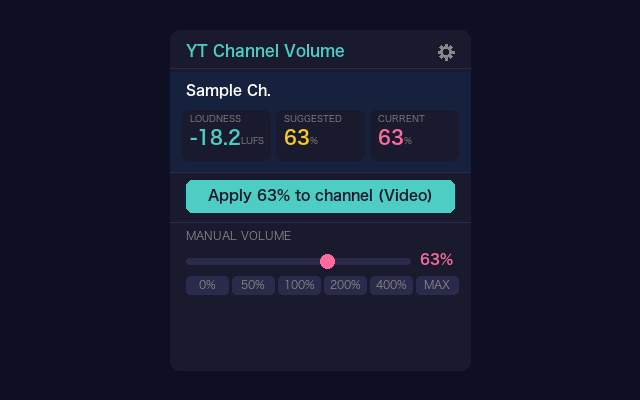
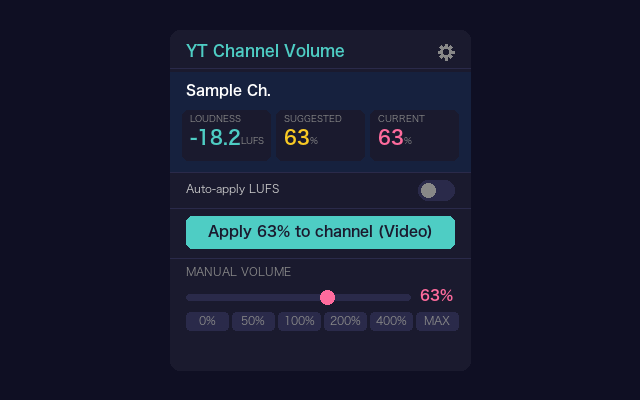
fix: draw the popup and settings rows the extension actually has
The mockups left out controls the UI has. popup.html puts .auto-section
between the loudness cards and the apply button — the per-channel LUFS
switch — and the popup image jumped straight from the cards to the button.
options.html lays out four setting rows; the settings image had two, missing
the all-channel Video/Live defaults and the gain overlay switch, and the
Saved Channels heading carried no Clear all.

They are drawn now in the order and with the strings the source has, the
switch in the shape .toggle-switch renders: 36x20, knob left and grey when
off, right and teal when on. The popup shows the channel switch off, which
is the state that leaves the apply button and the slider below it usable,
and the settings image shows the overlay switch on, which is the state the
overlay screenshot is taken in.

Six of the drawn strings live in _locales, so the test that compares three
of them against their messages now covers all six plus Clear all.

Changed region(s): [[0.2812, 0.45, 0.7188, 0.84]]

diff --git a/test.js b/test.js
@@ -225,7 +225,17 @@ if (outDirDecl && langLoop) {
   }
 
   // The mockups spell out UI text that lives in _locales, so it can drift.
-  const drawnLabels = { target_desc: 'targetLufsDesc', unit_label: 'displayUnit', unit_desc: 'displayUnitDesc' };
+  const drawnLabels = {
+    auto_label: 'autoApplyLoudness',
+    target_desc: 'targetLufsDesc',
+    all_auto_label: 'allChannelsAutoApply',
+    all_auto_desc: 'allChannelsAutoApplyDesc',
+    unit_label: 'displayUnit',
+    unit_desc: 'displayUnitDesc',
+    overlay_label: 'showGainOverlay',
+    overlay_desc: 'showGainOverlayDesc',
+    clear_all: 'clearAll',
+  };
   for (const lang of langs) {
     const localeFile = `./_locales/${lang}/messages.json`;
     assert(fs.existsSync(localeFile), `${localeFile} exists for the language the mockups draw`);

diff --git a/gen_screenshots.py b/gen_screenshots.py
@@ -84,6 +84,13 @@ def fullscreen(draw, cx, cy, size, color):
             draw.line([(x, y), (x, y - arm * sy)], fill=color, width=2)
 
 
+def toggle(draw, x, y, on):
+    """The extension's 36x20 switch: dark track, knob left when off, teal right when on."""
+    draw.rounded_rectangle([x, y, x+36, y+20], radius=10, fill=(27, 58, 75) if on else BORDER)
+    knob_x = x + 19 if on else x + 3
+    draw.ellipse([knob_x, y+3, knob_x+14, y+17], fill=TEAL if on else GRAY)
+
+
 def fit_value_font(draw, cards, max_w):
     """Largest bold size at which every card's value + unit still fits its card."""
     for size in (22, 20, 18, 17, 16, 15, 14):
@@ -100,10 +107,16 @@ def fit_value_font(draw, cards, max_w):
 STRINGS = {
     'ja': {
         'apply': '63% をチャンネルに適用 (Video)',
+        'auto_label': 'LUFS 自動適用',
         'manual': 'MANUAL VOLUME',
         'target_desc': 'Loudness から算出するゲインの基準値',
+        'all_auto_label': '全チャンネルの LUFS 自動適用',
+        'all_auto_desc': '個別設定がないチャンネルの既定値',
         'unit_label': '表示単位',
         'unit_desc': 'ゲイン値の表示形式',
+        'overlay_label': 'ゲイン表示',
+        'overlay_desc': 'プレイヤーの音量バー横に適用中のゲインを表示',
+        'clear_all': '全削除',
         'video_title': 'Sample Ch. - ピアノカバー集',
         'video_channel': 'Sample Ch.',
         'channels': [
@@ -114,10 +127,16 @@ STRINGS = {
     },
     'en': {
         'apply': 'Apply 63% to channel (Video)',
+        'auto_label': 'Auto-apply LUFS',
         'manual': 'MANUAL VOLUME',
         'target_desc': 'Reference level for gain calculation from Loudness',
+        'all_auto_label': 'Auto-apply LUFS for all channels',
+        'all_auto_desc': 'Default for channels without an individual setting',
         'unit_label': 'Display unit',
         'unit_desc': 'Format for gain values',
+        'overlay_label': 'Gain overlay',
+        'overlay_desc': 'Show applied gain next to the volume bar in the player',
+        'clear_all': 'Clear all',
         'video_title': 'Sample Ch. - Piano Cover Collection',
         'video_channel': 'Sample Ch.',
         'channels': [
@@ -168,8 +187,15 @@ def screenshot_popup(lang):
 
     draw.line([(px, iy+100), (px+pw, iy+100)], fill=BORDER)
 
+    # Per-channel automatic LUFS, off here — that is what leaves the apply
+    # button and the slider below it usable.
+    ay = iy + 100
+    draw.text((px+16, ay+11), s['auto_label'], fill=(204, 204, 204), font=FONT_SM)
+    toggle(draw, px+pw-52, ay+8, on=False)
+    draw.line([(px, ay+36), (px+pw, ay+36)], fill=BORDER)
+
     # Apply button
-    by = iy + 108
+    by = iy + 144
     rr(draw, [px+16, by, px+pw-16, by+32], 6, TEAL)
     tw = draw.textlength(s['apply'], font=FONT_BOLD)
     draw.text((px + (pw - tw) / 2, by+7), s['apply'], fill=CARD_BG, font=FONT_BOLD)
@@ -202,48 +228,65 @@ def screenshot_settings(lang):
     img = Image.new('RGB', (W, H), BG)
     draw = ImageDraw.Draw(img)
 
-    draw.text((40, 24), 'YT Channel Volume', fill=TEAL, font=FONT_XL)
+    draw.text((36, 16), 'YT Channel Volume', fill=TEAL, font=FONT_XL)
 
-    # Settings section
-    sy = 70
-    rr(draw, [30, sy, 610, sy+130], 10, CARD_BG)
-    draw.text((50, sy+16), 'SETTINGS', fill=GRAY, font=FONT_SM)
+    # Settings section \u2014 the four rows options.html lays out, in its order
+    sy = 54
+    rr(draw, [30, sy, 610, sy+186], 10, CARD_BG)
+    draw.text((50, sy+12), 'SETTINGS', fill=GRAY, font=FONT_SM)
 
-    # Target LUFS
-    draw.text((50, sy+40), 'Target LUFS', fill=(204, 204, 204), font=FONT)
-    draw.text((50, sy+58), s['target_desc'], fill=DIM, font=FONT_SM)
-    draw.rounded_rectangle([380, sy+45, 520, sy+51], radius=2, fill=BORDER)
-    draw.ellipse([440, sy+40, 456, sy+56], fill=TEAL)
-    draw.text((530, sy+40), '-18 LUFS', fill=TEAL, font=FONT_BOLD)
+    ry = sy + 34
+    for label, desc in ((('Target LUFS'), s['target_desc']),
+                        (s['all_auto_label'], s['all_auto_desc']),
+                        (s['unit_label'], s['unit_desc']),
+                        (s['overlay_label'], s['overlay_desc'])):
+        draw.text((50, ry), label, fill=(204, 204, 204), font=FONT)
+        draw.text((50, ry+17), desc, fill=DIM, font=FONT_SM)
+        ry += 38
 
-    draw.line([(50, sy+80), (590, sy+80)], fill=BORDER)
+    # Target LUFS slider
+    ry = sy + 34
+    draw.rounded_rectangle([400, ry+5, 520, ry+11], radius=2, fill=BORDER)
+    draw.ellipse([452, ry, 468, ry+16], fill=TEAL)
+    draw.text((530, ry), '-18 LUFS', fill=TEAL, font=FONT_BOLD)
+
+    # Video / Live defaults, both off
+    ry += 38
+    for type_label, x in ((('VIDEO'), 424), ('LIVE', 512)):
+        draw.text((x, ry+4), type_label, fill=GRAY, font=FONT_SM)
+        toggle(draw, x+42, ry, on=False)
 
     # Display unit
-    draw.text((50, sy+88), s['unit_label'], fill=(204, 204, 204), font=FONT)
-    draw.text((50, sy+106), s['unit_desc'], fill=DIM, font=FONT_SM)
-    rr(draw, [520, sy+92, 556, sy+112], 6, TEAL)
-    draw.text((528, sy+95), '%', fill=CARD_BG, font=FONT_BOLD)
-    rr(draw, [556, sy+92, 590, sy+112], 6, SECTION_BG)
-    draw.text((562, sy+95), 'dB', fill=GRAY, font=FONT_BOLD)
+    ry += 38
+    rr(draw, [520, ry, 556, ry+20], 6, TEAL)
+    draw.text((528, ry+3), '%', fill=CARD_BG, font=FONT_BOLD)
+    rr(draw, [556, ry, 590, ry+20], 6, SECTION_BG)
+    draw.text((562, ry+3), 'dB', fill=GRAY, font=FONT_BOLD)
+
+    # Gain overlay, on here \u2014 it is what the overlay screenshot shows
+    ry += 38
+    toggle(draw, 554, ry, on=True)
 
     # Saved Channels section
-    cy = sy + 150
-    rr(draw, [30, cy, 610, cy+170], 10, CARD_BG)
-    draw.text((50, cy+16), 'SAVED CHANNELS', fill=GRAY, font=FONT_SM)
+    cy = sy + 200
+    rr(draw, [30, cy, 610, cy+134], 10, CARD_BG)
+    draw.text((50, cy+12), 'SAVED CHANNELS', fill=GRAY, font=FONT_SM)
+    clear_w = draw.textlength(s['clear_all'], font=FONT_SM)
+    draw.text((590-clear_w, cy+12), s['clear_all'], fill=PINK, font=FONT_SM)
 
-    hy = cy + 40
+    hy = cy + 34
     draw.text((50, hy), 'CHANNEL', fill=DIM, font=FONT_SM)
     draw.text((380, hy), 'VIDEO', fill=DIM, font=FONT_SM)
     draw.text((470, hy), 'LIVE', fill=DIM, font=FONT_SM)
-    draw.line([(50, hy+18), (590, hy+18)], fill=BORDER)
+    draw.line([(50, hy+16), (590, hy+16)], fill=BORDER)
 
     ry = hy + 24
     for name, video, live in s['channels']:
         draw.text((50, ry), name, fill=TEAL, font=FONT)
         draw.text((380, ry), video, fill=PINK, font=FONT_BOLD)
         draw.text((470, ry), live, fill=PINK if live != '\u2014' else DIM, font=FONT_BOLD)
-        draw.text((570, ry), '\u00d7', fill=DIM, font=FONT_LG)
-        ry += 36
+        draw.text((570, ry-4), '\u00d7', fill=DIM, font=FONT_LG)
+        ry += 26
 
     save(img, f'settings_{lang}.png')
 
